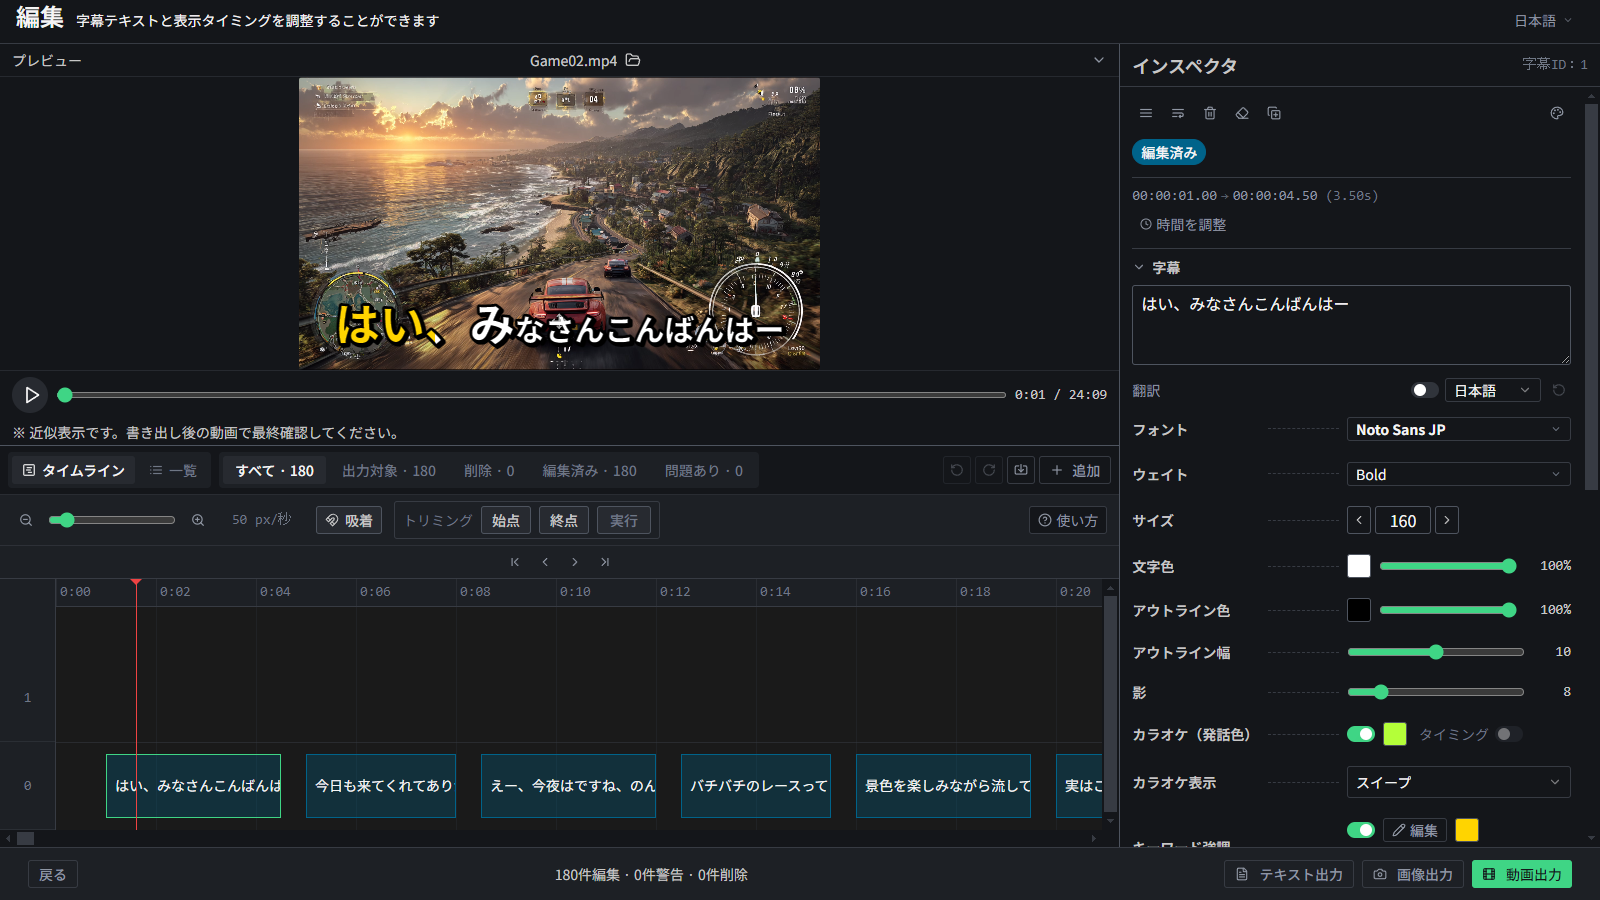
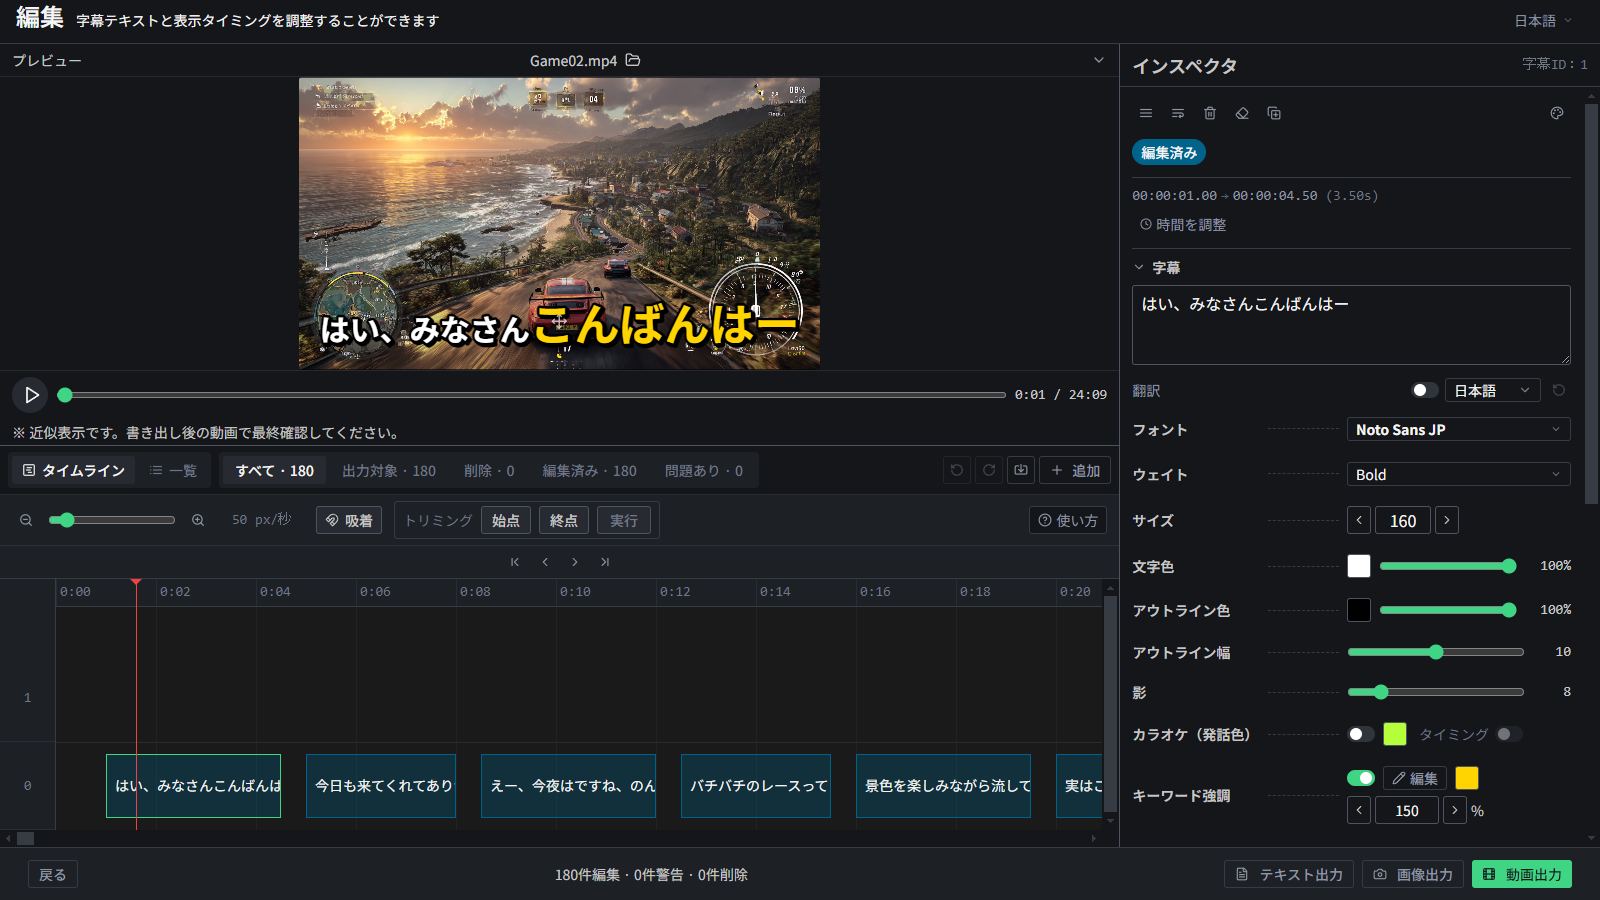
fix(shots,site): choose the emphasised word, and match images to sections (REQ-0566)
The emphasis shot highlighted 「はい、み」 — `text.slice(0, 4)` of the first
long cue, which is not a word and cuts 「みなさん」 in half. Worse, the karaoke
sweep also fills from the start of the line, so two accent colours advanced
from the same edge and neither could be read. A demonstration of "highlight
the word that matters" was demonstrating the opposite.

The cue and span are now stated outright — cue 0, offsets 7..13, 「こんばんはー」
— with an assertion that fails loudly if the SRT changes underneath them. A
mechanical rule cannot pick a meaningful word without a tokeniser, and a fixed
set of seven screenshots does not need one. Karaoke is off for this shot only:
its job is emphasis, and the other five all carry the sweep.

Verified in pixels rather than by eye: 2874 emphasis-coloured pixels present,
2 karaoke-coloured (so no collision), and the emphasis centroid sits right of
the caption centroid — i.e. on the tail word, not the head.

The section audit turned up two more mismatches beyond the reported one. The
ja positioning section really did carry an English-subtitle shot (Game05/en,
shot for the translation story); it now has its own ja shot, which earns its
place by putting the caption at the TOP — the point of that section is that
where you put it is where it burns. And s2 was doing double duty as both the
new-feature and the "flexible editing" image, which reads as one screenshot
padded out; Game08 now carries a distinct editing shot with a background box
and coloured body.
[…]

diff --git a/docs/index.html b/docs/index.html
@@ -256,7 +256,7 @@
 
       <div class="feature-item">
         <div>
-          <img src="images/v140/s5-translate.png" alt="翻訳した字幕の編集画面" class="feature-image" loading="lazy">
+          <img src="images/v140/s8-position.png" alt="字幕を画面上部に配置した編集画面" class="feature-image" loading="lazy">
         </div>
         <div class="feature-content">
           <h3>見たままの位置決めと、安心して閉じられる編集</h3>
@@ -303,7 +303,7 @@
         </div>
         <div class="feature-grid">
           <div class="feature-grid-cell">
-            <img src="images/v140/s2-step2-emphasis.png" alt="テキストと見た目を編集する画面" class="feature-image" loading="lazy">
+            <img src="images/v140/s9-inspector.png" alt="テキストと見た目を編集する画面" class="feature-image" loading="lazy">
             <h4>テキストも見た目も自由に編集</h4>
             <p>書き起こしたテキストの修正はもちろん、フォントの変更、文字の大きさ・色、アウトラインの色・太さまで、字幕の見た目を細かく調整できます。</p>
           </div>
